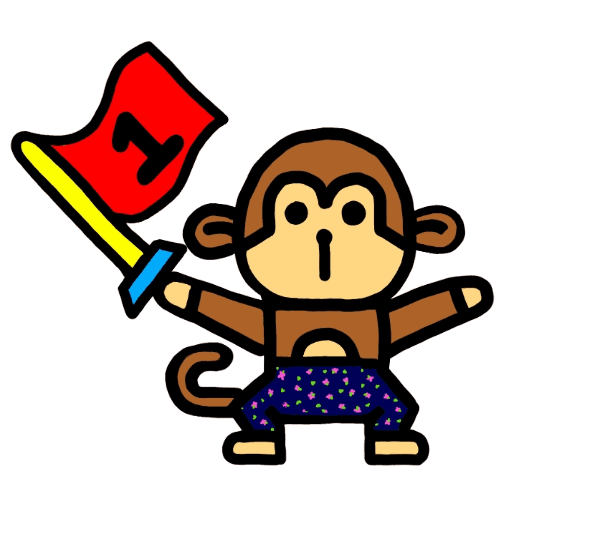
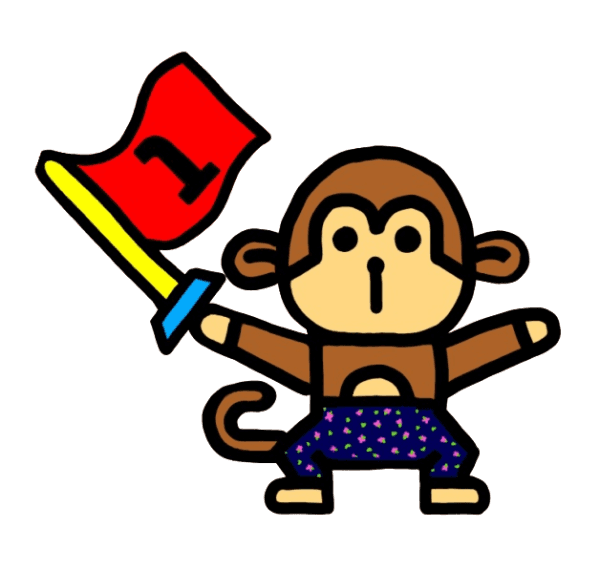
feat: 장소마다 깃발 원숭이 바뀜

diff --git a/src/Pages/Search.jsx b/src/Pages/Search.jsx
@@ -7,6 +7,7 @@ const Search = () => {
   const [map, setMap] = useState(null);
   const [keyword, setKeyword] = useState("");
   const [markers, setMarkers] = useState([]);
+  const [registeredPlaces, setRegisteredPlaces] = useState([]);
   const [selectedPlace, setSelectedPlace] = useState(null);
   const [isModalOpen, setIsModalOpen] = useState(false);
   const [routes, setRoutes] = useState([]);
@@ -66,13 +67,16 @@ const Search = () => {
   };
 
   const displayPlaces = (places) => {
-    removeMarkers();
+    removeTempMarkers();
     const bounds = new kakao.maps.LatLngBounds();
     const newMarkers = [];
 
     places.forEach((place) => {
       const position = new kakao.maps.LatLng(place.y, place.x);
-      const marker = createMarker(position, place);
+      const registeredPlace = registeredPlaces.find(
+        (registered) => registered.place_name === place.place_name
+      );
+      const marker = createMarker(position, place, registeredPlace);
       bounds.extend(position);
       newMarkers.push(marker);
     });
@@ -81,8 +85,14 @@ const Search = () => {
     map.setBounds(bounds);
   };
 
-  const createMarker = (position, place) => {
-    const imageSrc = `${process.env.PUBLIC_URL}/monkey1.png`; // 마커 이미지의 주소
+  const createMarker = (position, place, registeredPlace) => {
+    let imageSrc = `${process.env.PUBLIC_URL}/monkeys.png`; // 기본 마커 이미지의 주소
+
+    if (registeredPlace) {
+      const index = registeredPlaces.indexOf(registeredPlace) + 1;
+      imageSrc = `${process.env.PUBLIC_URL}/monkey${index}.png`; // 등록된 마커 이미지의 주소
+    }
+
     const imageSize = new kakao.maps.Size(50, 50); // 마커 이미지의 크기
     const imageOption = { offset: new kakao.maps.Point(15, 15) }; // 마커 이미지의 좌표에 일치시킬 좌표 (이미지의 중앙)
     
@@ -103,8 +113,7 @@ const Search = () => {
     return marker;
   };
   
-
-  const removeMarkers = () => {
+  const removeTempMarkers = () => {
     markers.forEach((marker) => marker.setMap(null));
     setMarkers([]);
   };
@@ -116,39 +125,44 @@ const Search = () => {
   const handleRegister = () => {
     if (!selectedPlace) return;
 
-    // 기존 마커 제거
-    removeMarkers();
+    // 새로운 마커를 지도에 추가 (이전 마커들은 유지)
+    setRoutes((prevRoutes) => {
+      const newRoutes = [...prevRoutes, selectedPlace];
+      
+      const linePath = newRoutes.map(
+        (route) => new kakao.maps.LatLng(route.y, route.x)
+      );
+      
+      const markerIndex = newRoutes.length;
+      const imageSrc = `${process.env.PUBLIC_URL}/monkey${markerIndex}.png`; // 각 마커 인덱스에 해당하는 이미지 파일 경로
+      const imageSize = new kakao.maps.Size(50, 50); // 마커 이미지의 크기
+      const imageOption = { offset: new kakao.maps.Point(15, 15) }; // 마커 이미지의 좌표에 일치시킬 좌표 (이미지의 중앙)
+      const markerImage = new kakao.maps.MarkerImage(imageSrc, imageSize, imageOption);
+      
+      const marker = new kakao.maps.Marker({
+        map: map,
+        position: new kakao.maps.LatLng(selectedPlace.y, selectedPlace.x),
+        image: markerImage,
+      });
 
-    setRoutes((prevRoutes) => [...prevRoutes, selectedPlace]);
+      // 새로 추가된 마커를 포함해 모든 마커들을 저장
+      setMarkers(prevMarkers => [...prevMarkers, marker]);
 
-    const linePath = [...routes, selectedPlace].map(
-      (route) => new kakao.maps.LatLng(route.y, route.x)
-    );
+      // 등록된 장소를 저장
+      setRegisteredPlaces(prevPlaces => [...prevPlaces, selectedPlace]);
 
-    // 새로운 마커를 지도에 추가
-    const markerIndex = routes.length + 1;
-    new kakao.maps.Marker({
-      map: map,
-      position: new kakao.maps.LatLng(selectedPlace.y, selectedPlace.x),
+      // 경로를 직선으로 연결
+      const polyline = new kakao.maps.Polyline({
+        path: linePath,
+        strokeWeight: 5,
+        strokeColor: "#FF0000",
+        strokeOpacity: 0.7,
+        strokeStyle: "solid",
+      });
+      polyline.setMap(map);
+
+      return newRoutes;
     });
-
-    // 마커에 순서 번호 표시
-    new kakao.maps.CustomOverlay({
-      map: map,
-      position: new kakao.maps.LatLng(selectedPlace.y, selectedPlace.x),
-      content: `<div style="padding:5px;background:white;border:1px solid black;border-radius:3px;font-weight:bold;">${markerIndex}</div>`,
-      yAnchor: 1.6,
-    });
-
-    // 경로를 직선으로 연결
-    const polyline = new kakao.maps.Polyline({
-      path: linePath,
-      strokeWeight: 5,
-      strokeColor: "#FF0000",
-      strokeOpacity: 0.7,
-      strokeStyle: "solid",
-    });
-    polyline.setMap(map);
 
     closeModal();
   };
